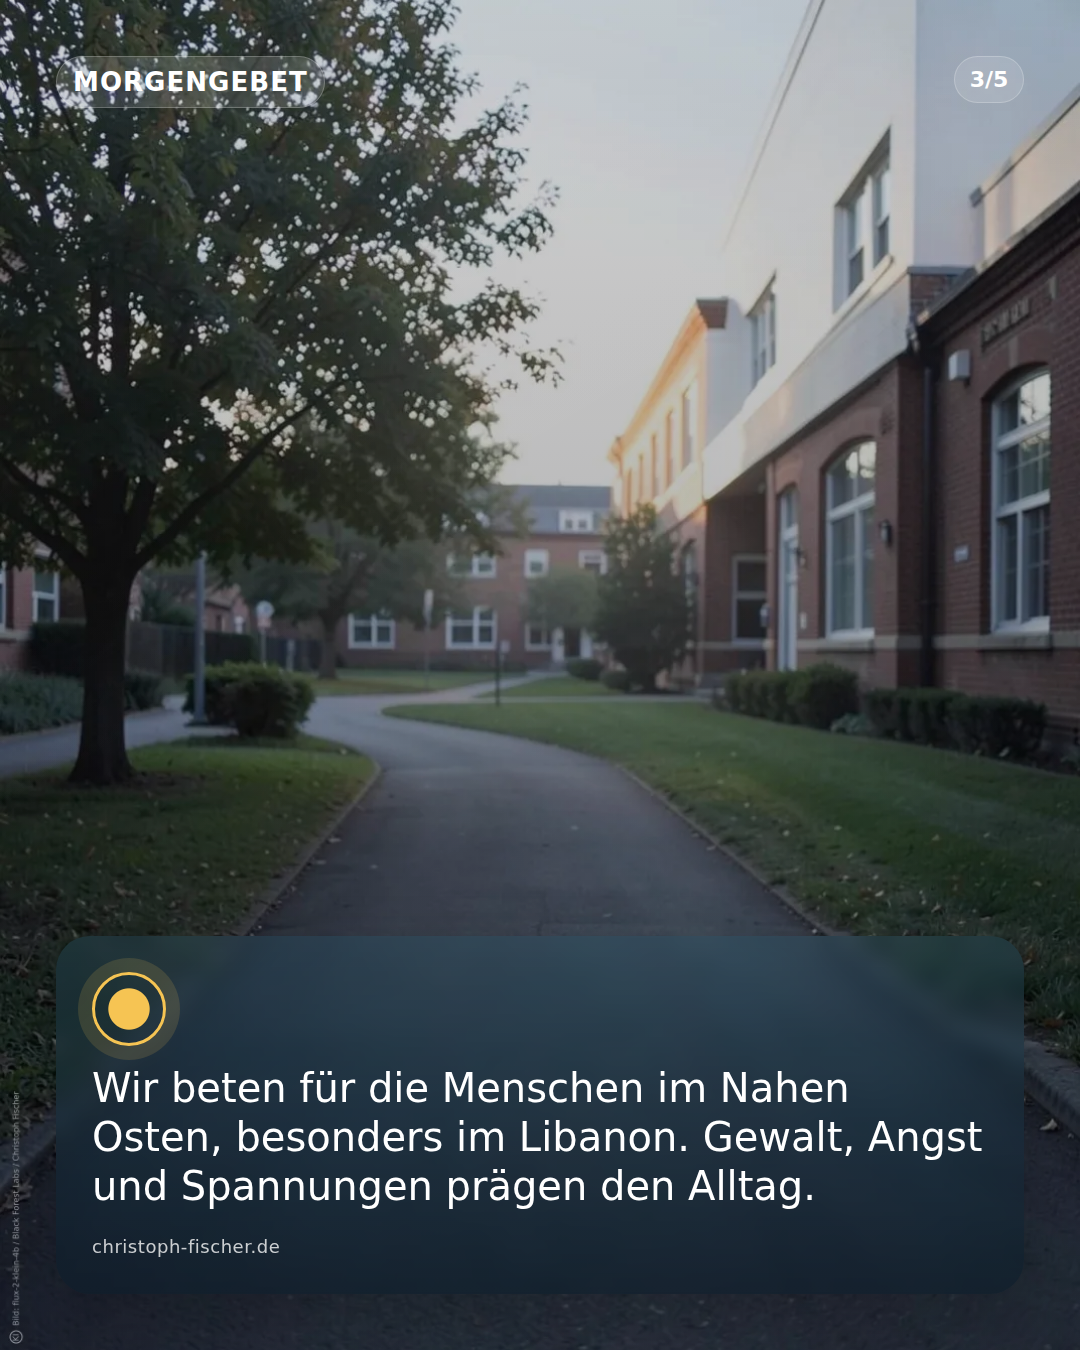
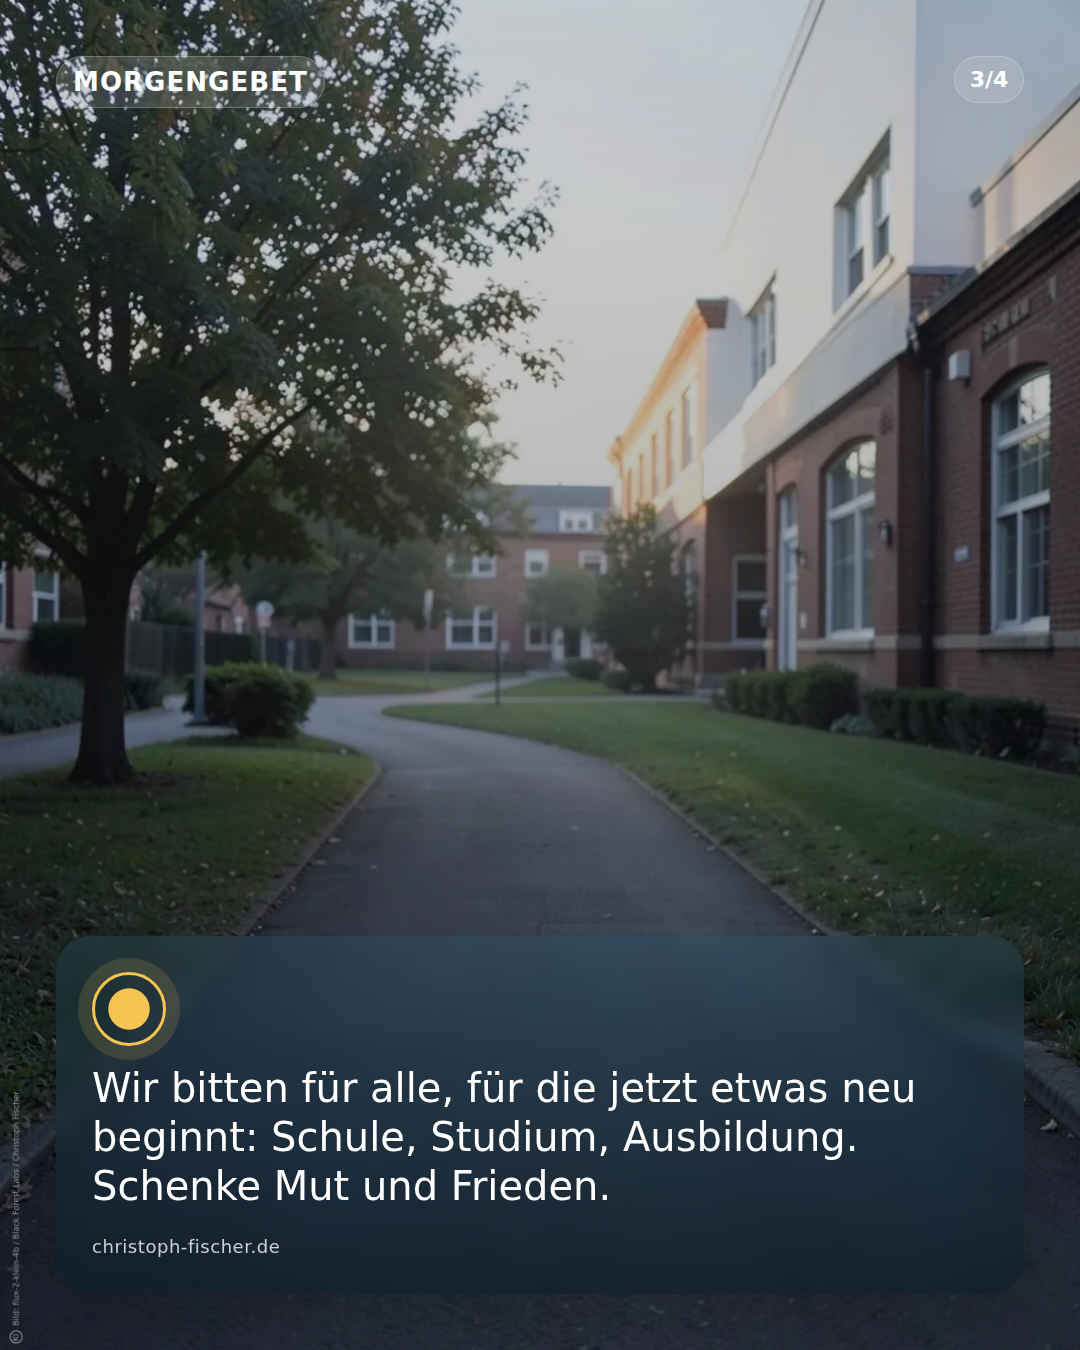
Update content: GET /files/2026-09-09/prayer-morning-2026-09-09/render-instagram-feed-05.png

Changed region(s): [[0.0917, 0.7778, 0.9167, 0.9022]]

diff --git a/2026-09-09/prayer-morning-2026-09-09/render-instagram-feed-04.html b/2026-09-09/prayer-morning-2026-09-09/render-instagram-feed-04.html
@@ -396,11 +396,11 @@
       <section class="layout">
         <div class="panel-meta">
           <div class="eyebrow">Morgengebet</div>
-          <div class="pager">4/5</div>
+          <div class="pager">4/4</div>
         </div>
         <section class="panel prayer-panel">
   <div class="prayer-symbol prayer-symbol-morning" aria-hidden="true"></div>
-  <p class="body-text" data-overflow-id="primary-text">Wir bitten für alle, für die jetzt etwas neu beginnt: Schule, Studium, Ausbildung. Schenke Mut und Frieden.</p>
+  <p class="body-text" data-overflow-id="primary-text">Deine Zukunft kommt. Darum gehen wir in diesen Tag. Amen.</p>
   <p class="sender-mark">christoph-fischer.de</p>
 </section>
 
